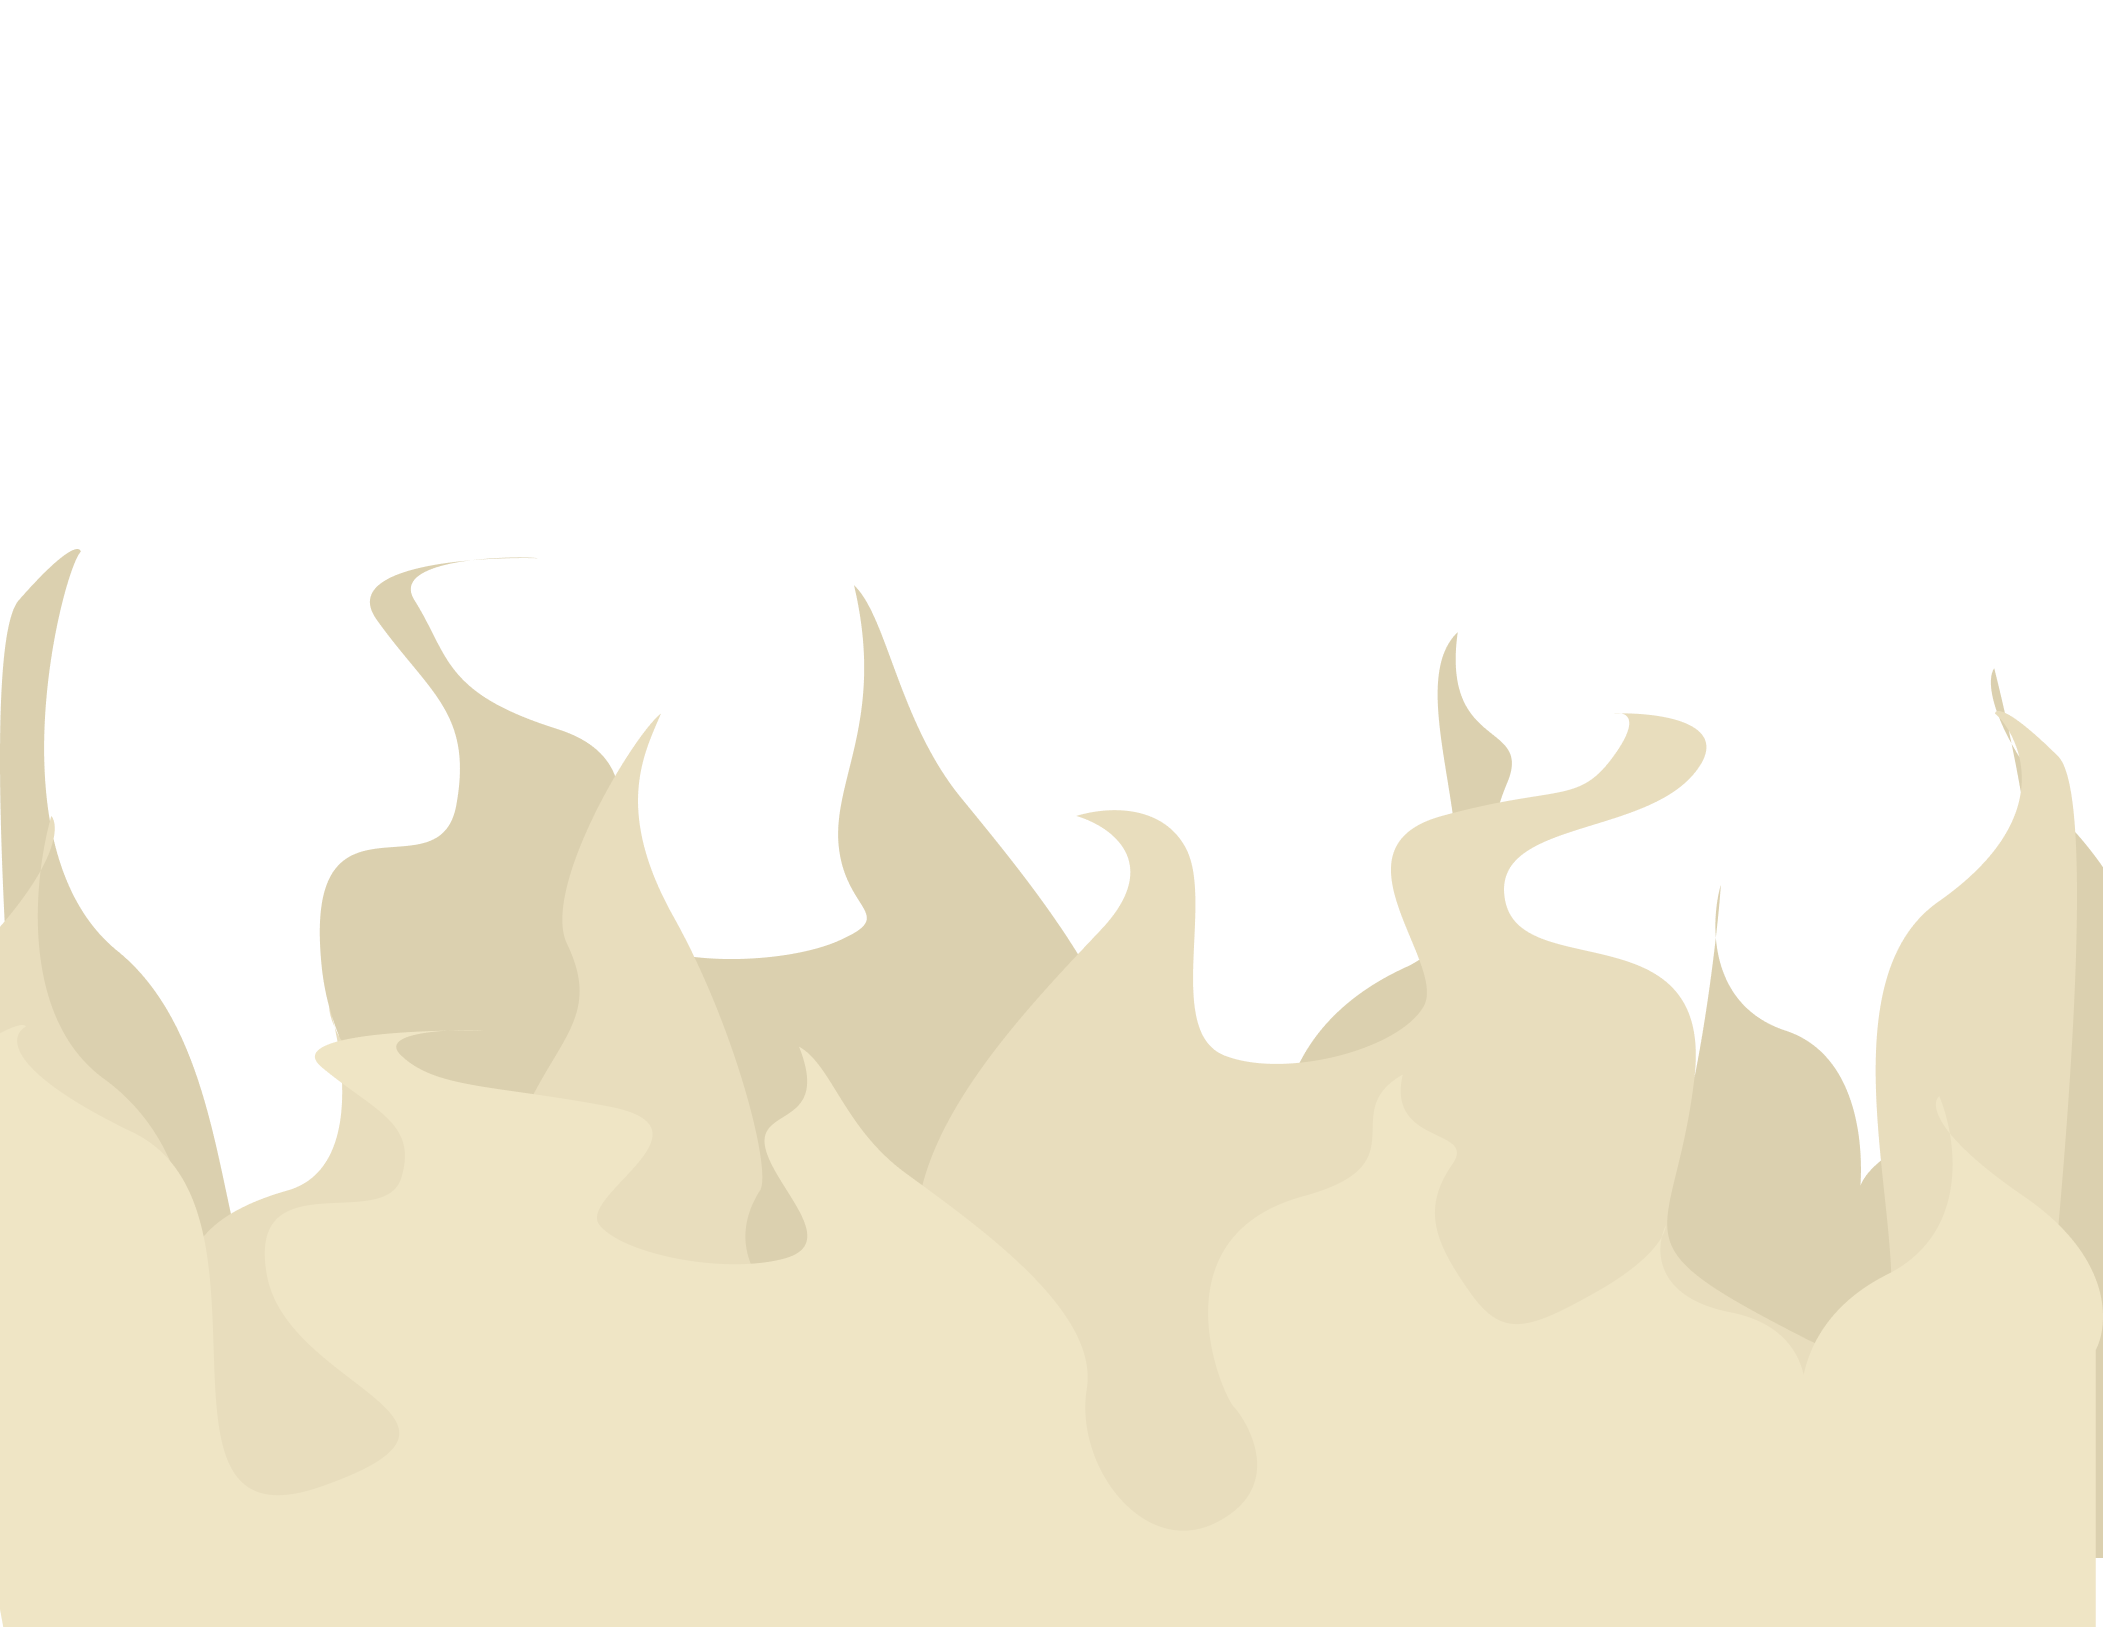
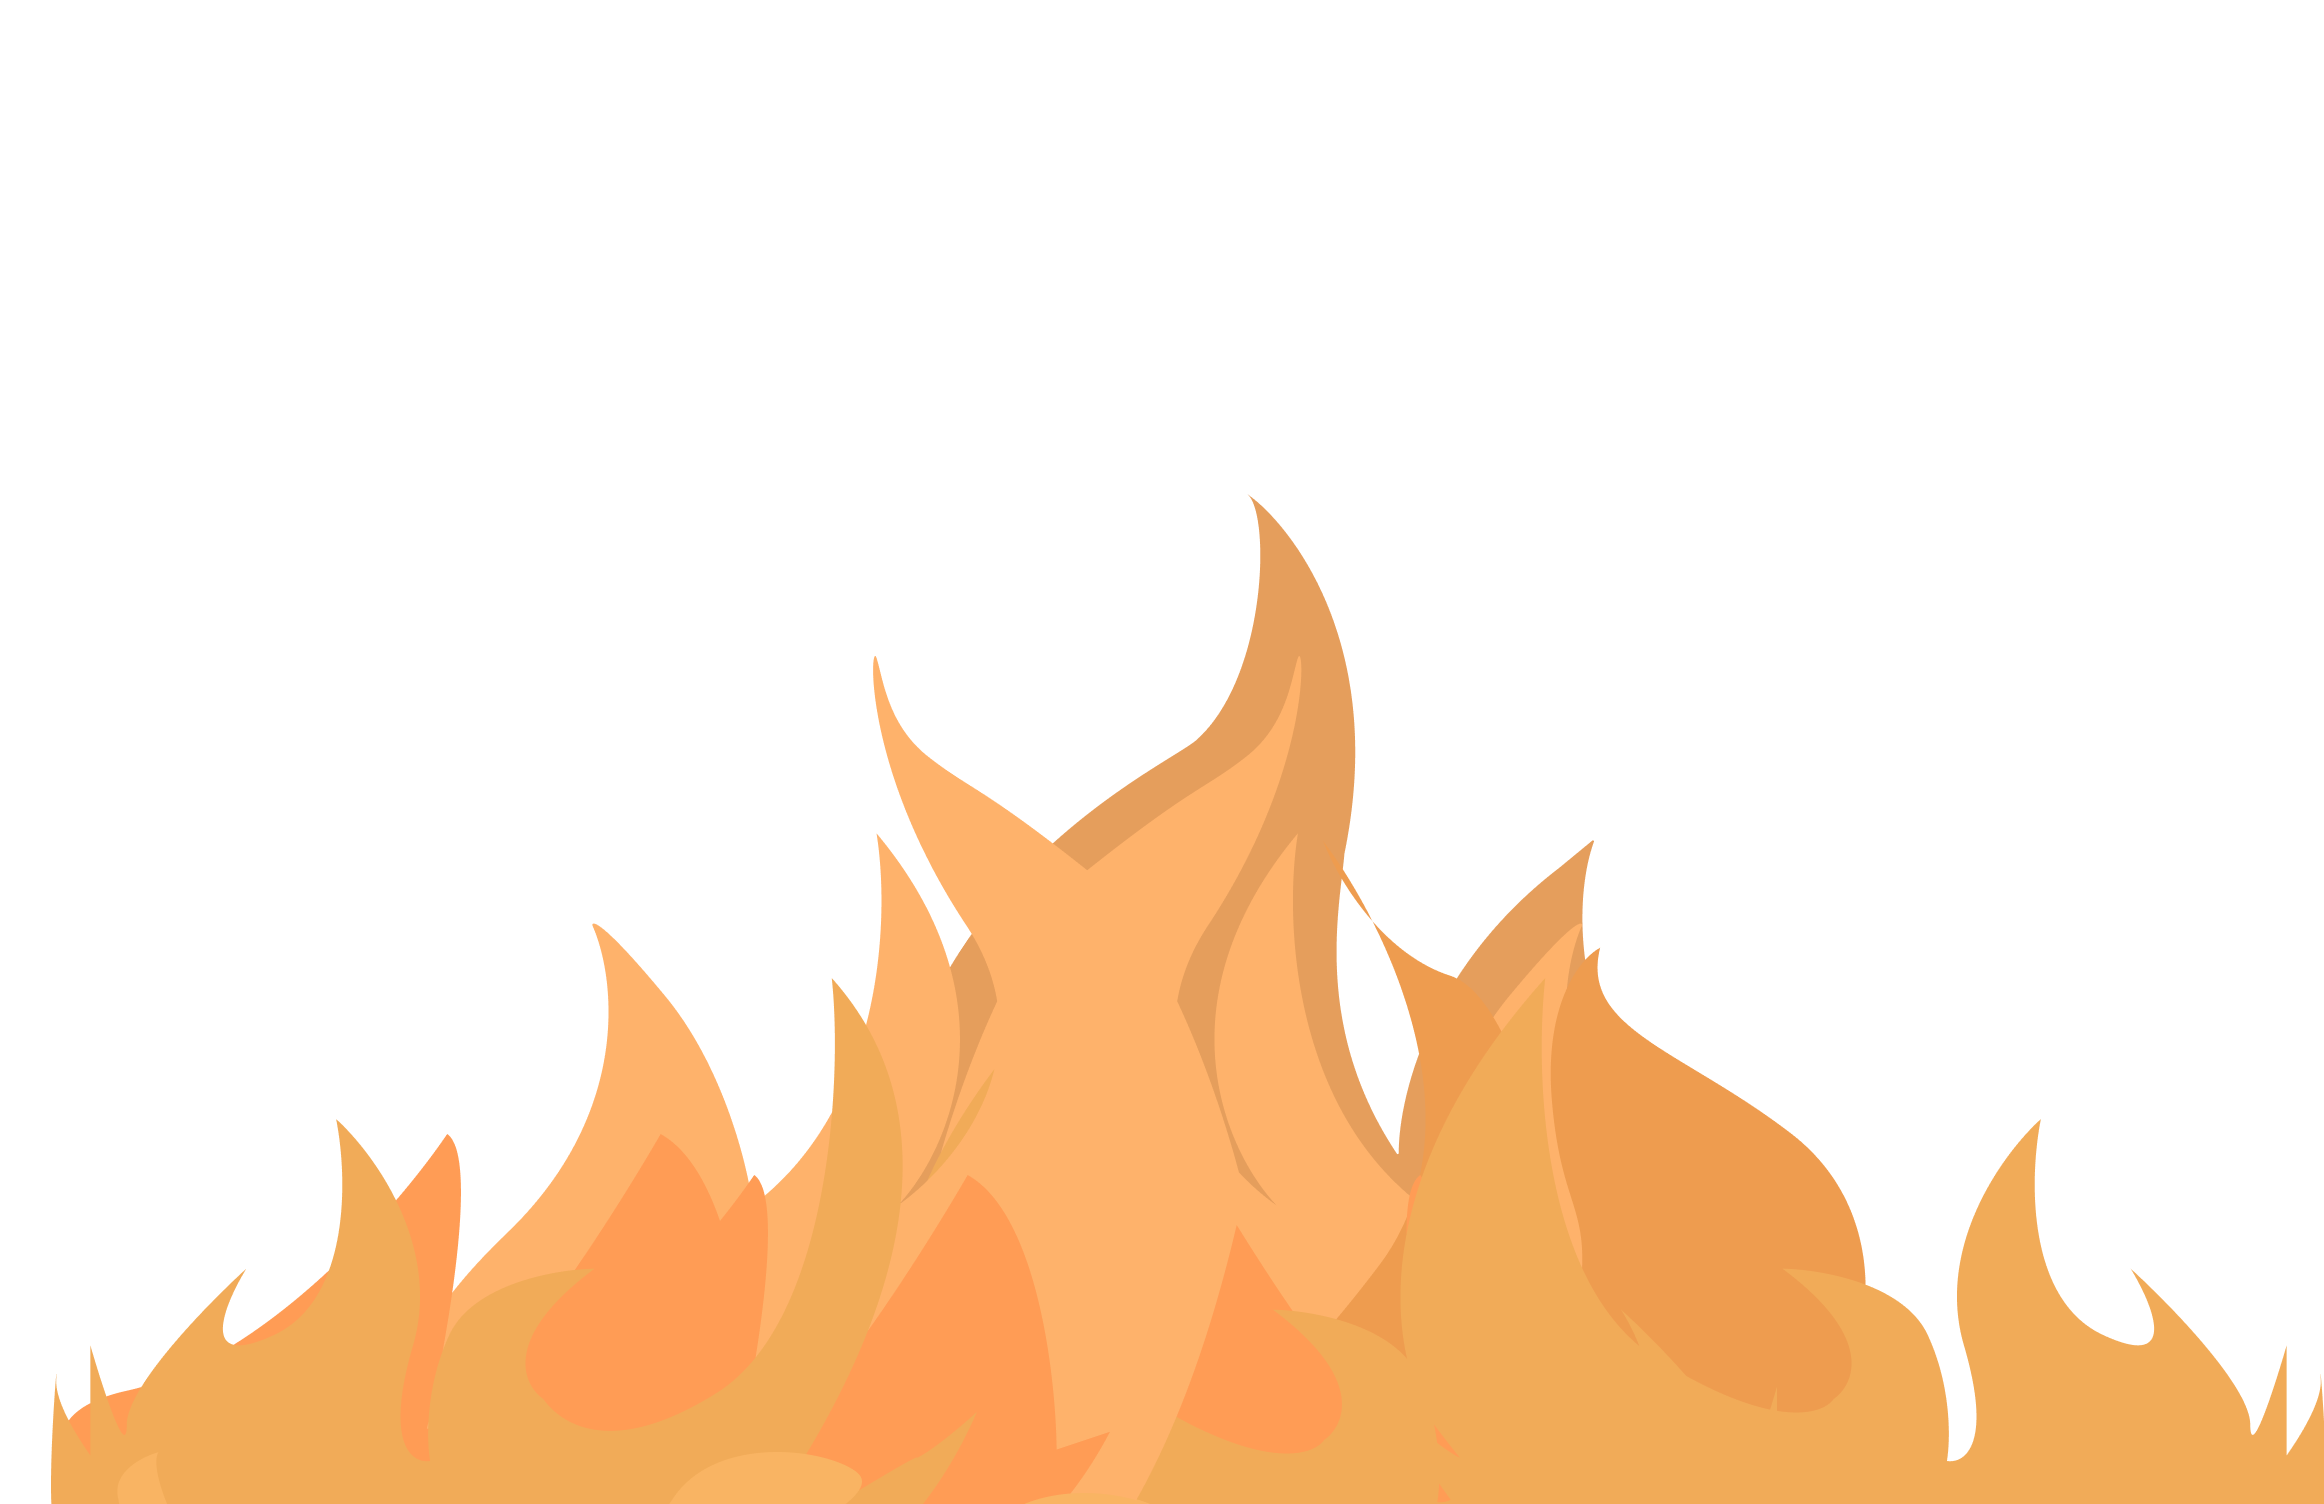
Oven y limpieza

diff --git a/src/components/DeviceComponents/OvenBox.vue b/src/components/DeviceComponents/OvenBox.vue
@@ -352,9 +352,10 @@ const props = defineProps({
   cursor: pointer;
   padding: 16px;
   border-radius: 10px;
-  background-color: #f4ac6d;
+  background-color: #F4CF6D;
   background-image:url('./DeviceAssets/fuego.png');
   background-size: cover;
+  background-position: center;
   transition: all .2s ease-in-out;
   height: 300px;
   width: 400px;
@@ -365,9 +366,10 @@ const props = defineProps({
   cursor: pointer;
   padding: 16px;
   border-radius: 10px;
-  background-color: #f4ac6d;
+  background-color: #F4CF6D;
   background-image: url('./DeviceAssets/fuego.png');
   background-size: cover;
+  background-position: center;
   transition: all .2s ease-in-out;
   height: 300px;
   width: 400px;
@@ -398,16 +400,14 @@ const props = defineProps({
   margin: 10px;
   padding: 20px;
   width: 120px;
-  box-shadow: inset 0 1px 7px rgba(0, 0, 0, 0.2), 
-              inset 0 -1px 3px rgba(240, 222, 162, 0.5);
-  background-color: #F4CF6Dd8;
+  background-color: #f3b373d8;
+  box-shadow: inset 0 1px 7px rgba(0, 0, 0, 0.3), 
+              inset 0 -4px 5px rgba(240, 222, 162, 0.5);
   border-radius: 10px;
   box-sizing: border-box;
   overflow: hidden;
 }
-.red-text {
-  color: #ff0000;
-}
+
 .temperature-box {
   padding: 30px;
   box-shadow: inset 0 1px 7px rgba(0, 0, 0, 0.2), 
@@ -444,43 +444,17 @@ const props = defineProps({
   padding: 30px;
   border-radius: 15px !important;
   background-image: url("./DeviceAssets/fuego.png");
+  background-position-x: 50%;
+  background-position-y: -100px ;
+  background-size: 1200px;
   background-color: #f4e8c6ae;
   backdrop-filter: blur(8px);
-  background-size: cover;
-  background-color: radial-gradient(at 80% 50%, rgba(240, 147, 65, 0.739), rgba(244, 207, 109, 0.99));
 }
-
-
-
-.toggle-card::before {
-  content: "";
-  position: absolute;
-  top: 0px;
-  left: 0;
-  width: 100%;
-  height: 100%;
-  background-size: 70%;
-  background-position: calc(100% - 0px) top;
-  background-repeat: no-repeat;
-  opacity: 0.05;
-}
-
-
 
 .rounded-toolbar {
   border-radius: 20px;
   background-color: transparent;
 }
-
-.bg-on {
-  background-color: #f4a86d;
-}
-
-/* background color when turned off */
-.bg-off {
-  background-color: #000000;
-}
-
 
 .green-text {
   color: #1C4035; /* Change the color to your desired value */
@@ -493,7 +467,6 @@ const props = defineProps({
   white-space: nowrap;
   overflow: hidden;
   margin-left: -10px;
-
 }
 
 .on-button:active {
